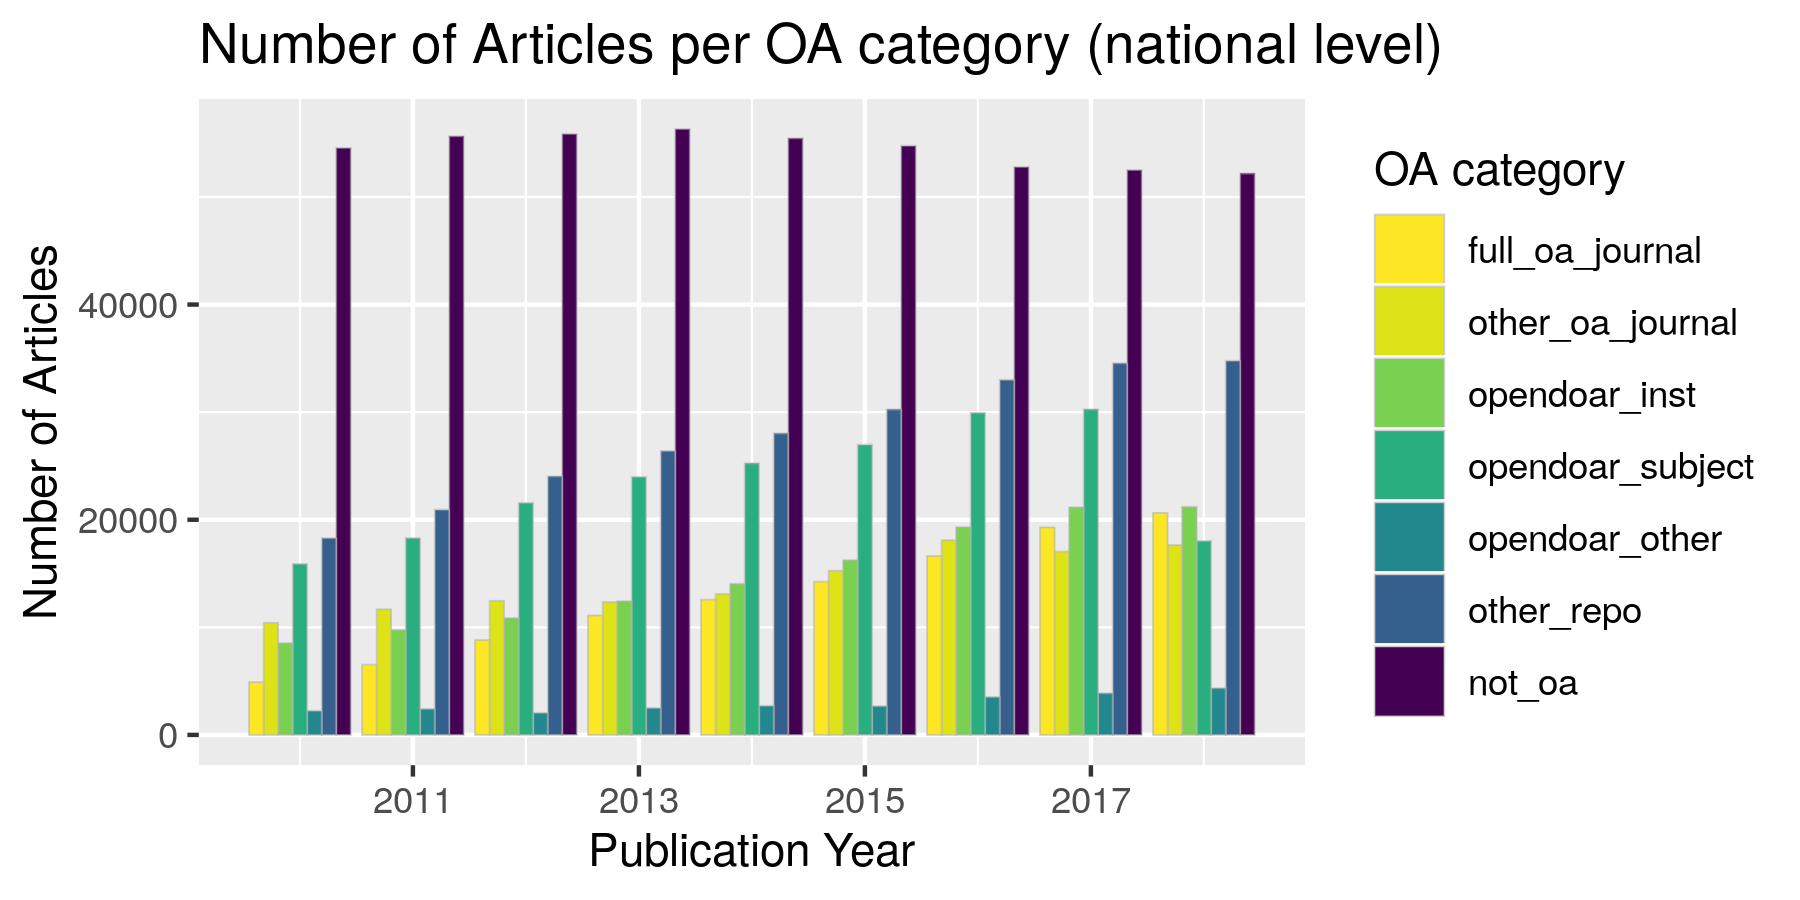
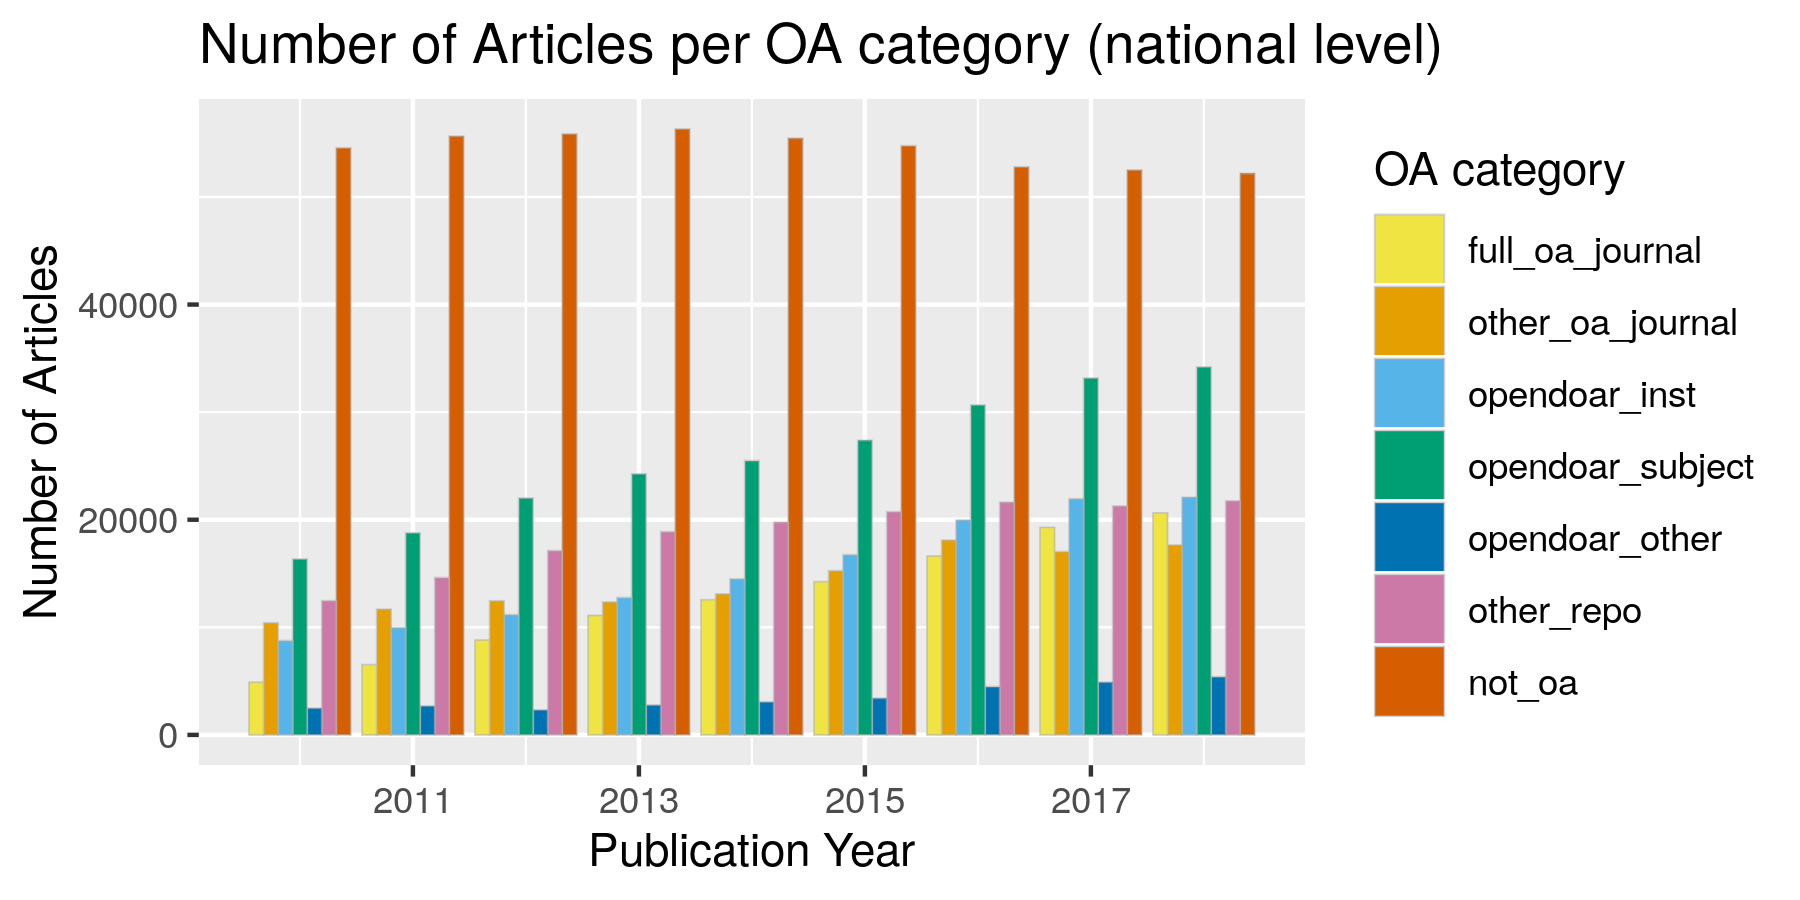
add filter for institutions with >= 100 pubs, change colors and linetypes, re-render

Changed region(s): [[0.1244, 0.1244, 0.7156, 0.84], [0.7467, 0.2178, 0.8089, 0.8089]]

diff --git a/analysis.md b/analysis.md
@@ -55,22 +55,29 @@ sectors.
 
 In order to investigate the variability of OA publishing within the
 sectors, we now go one level deeper and examine OA shares of individual
-institutions, grouped by the sector they belong to. To this end, we
-first calculate the individual OA shares.
+institutions, grouped by the sector they belong to. We only include
+institututions with a publication output of at least 100 publications in
+the observed time period of 9 years. Of the 469 institutions in total,
+334 fulfill this condition. This means, that in the following
+institution specific analyses, 135 insitutions, or 4649 articles are not
+considered. Of the remaining institutions, we first calculate the
+individual OA shares.
 
 The following figure displays scatterplots where the OA share of an
 institution over the whole time period is shown with respect to its
 publication
 output.
 
-<img src="analysis_files/figure-gfm/unnamed-chunk-8-1.png" title="Open Access shares of research institutions in Germany with respect to their total publication output grouped by the sector they belong to." alt="Open Access shares of research institutions in Germany with respect to their total publication output grouped by the sector they belong to." width="90%" style="display: block; margin: auto;" />
+<img src="analysis_files/figure-gfm/unnamed-chunk-8-1.png" title="Open Access shares of research institutions in Germany with respect to their total publication output grouped by the sector they belong to. Only institutions with at least 100 publications are shown. Blue points correspond to single insitutions, gray lines are obained by linear regression within the sector, gray areas are pointwise symmetric 95% t-distribution confidence bands. Scales of the x-axes vary across subplots in order to adapt to the different publication volumes." alt="Open Access shares of research institutions in Germany with respect to their total publication output grouped by the sector they belong to. Only institutions with at least 100 publications are shown. Blue points correspond to single insitutions, gray lines are obained by linear regression within the sector, gray areas are pointwise symmetric 95% t-distribution confidence bands. Scales of the x-axes vary across subplots in order to adapt to the different publication volumes." width="90%" style="display: block; margin: auto;" />
 The most striking observations from this figure are the high OA shares
-of most of the Max-Planck-institutes and the very low OA fractions of
-almost all of the state and federal institutes as well as the ones from
-the Fraunhofer Society. Universities and Leibniz-Society have many
-institutes with OA shares close to one half. We can further see very
-well that the universities have by far the largest publication volumes,
-followed by the Helmholtz-Society.
+of most of the Max-Planck and Helmholtz institutes and the very low OA
+fractions of almost all of the state and federal institutes as well as
+the ones from the Fraunhofer Society. Universities and Leibniz-Society
+have many institutes with OA shares close to one half. We can further
+see very well that the universities have by far the largest publication
+volumes, followed by the Helmholtz-Society. The linear trend of higher
+publication volume implying higher OA shares is most distinctive for the
+university sector (narrowest confidence bands).
 
 The following box plot quantifies the observations regarding the
 variability of OA shares within sectors made
@@ -101,43 +108,44 @@ be counted for several categories and numbers not necessarily sum up to
 the total number of articles
 published.
 
-<img src="analysis_files/figure-gfm/unnamed-chunk-10-1.png" title="Development of the total number of journal articles over time per OA category. Categories are non-exclusive." alt="Development of the total number of journal articles over time per OA category. Categories are non-exclusive." width="90%" style="display: block; margin: auto;" />
+<img src="analysis_files/figure-gfm/unnamed-chunk-10-1.png" title="Development of the total number of journal articles over time per OA category (as per schema in Table 1). Categories are non-exclusive, that is some articles may be counted for a journal and a repository category." alt="Development of the total number of journal articles over time per OA category (as per schema in Table 1). Categories are non-exclusive, that is some articles may be counted for a journal and a repository category." width="90%" style="display: block; margin: auto;" />
 Observations:
 
-  - drop in disciplinary repos, maybe because of green embargoes /
-    post-publish self-archiving
   - drop in other oa journal -\> Delayed OA
+  - slight drop in other\_repo -\> more sources registered, published
+    more in registered sources
   - apart from this: all OA categories increase, not oa decreases
-  - most prevalent category: other repo, i.e. not further specified
-    green OA, followed closely by disciplinary
+  - most prevalent category: subject-specific repos, registered with
+    OpenDOAR
+
+relative numbers?
 
 Or as
 barplot?
 
-<img src="analysis_files/figure-gfm/unnamed-chunk-11-1.png" title="Development of the total number of journal articles over time per OA category. Categories are non-exclusive." alt="Development of the total number of journal articles over time per OA category. Categories are non-exclusive." width="90%" style="display: block; margin: auto;" />
+<img src="analysis_files/figure-gfm/unnamed-chunk-11-1.png" title="Development of the total number of journal articles over time per OA category (as per schema in Table 1). Categories are non-exclusive, that is some articles may be counted for a journal and a repository category." alt="Development of the total number of journal articles over time per OA category (as per schema in Table 1). Categories are non-exclusive, that is some articles may be counted for a journal and a repository category." width="90%" style="display: block; margin: auto;" />
 
 Faceted?
 
-<img src="analysis_files/figure-gfm/unnamed-chunk-12-1.png" title="Development of the number of journal articles per OA category in comparison to the total number of journal articles published by the considered institutions over time. Categories are non-exclusive." alt="Development of the number of journal articles per OA category in comparison to the total number of journal articles published by the considered institutions over time. Categories are non-exclusive." width="90%" style="display: block; margin: auto;" />
+<img src="analysis_files/figure-gfm/unnamed-chunk-12-1.png" title="Development of the number of journal articles per OA category (as per schema in Table 1) in comparison to the total number of journal articles published by the considered institutions over time. Categories are non-exclusive, that is some articles may be counted for a journal and a repository category." alt="Development of the number of journal articles per OA category (as per schema in Table 1) in comparison to the total number of journal articles published by the considered institutions over time. Categories are non-exclusive, that is some articles may be counted for a journal and a repository category." width="90%" style="display: block; margin: auto;" />
 
-Again, we go one step further and look at insitution specific OA
-proportions. In a first step, we calculate the category-specific OA
-shares of each
-institution.
+Again, we go one step further and look at sector specific OA
+proportions.
 
-<img src="analysis_files/figure-gfm/unnamed-chunk-14-1.png" title="OA shares per sector. Shown is the relationship between Green OA shares and total OA shares. Point sizes correspond to total publication output." alt="OA shares per sector. Shown is the relationship between Green OA shares and total OA shares. Point sizes correspond to total publication output." width="90%" style="display: block; margin: auto;" />
+<img src="analysis_files/figure-gfm/unnamed-chunk-13-1.png" title="OA shares per sector. The relationship between Gold OA (publisher), or Green OA (repository), and the total OA share is shown. Point sizes correspond to total publication output. Coloring is according to sector." alt="OA shares per sector. The relationship between Gold OA (publisher), or Green OA (repository), and the total OA share is shown. Point sizes correspond to total publication output. Coloring is according to sector." width="90%" style="display: block; margin: auto;" />
 
-<img src="analysis_files/figure-gfm/unnamed-chunk-15-1.png" title="OA shares per sector. Shown is the relationship between OA shares of individual OA categories and overall OA share. Point sizes correspond to total publication output." alt="OA shares per sector. Shown is the relationship between OA shares of individual OA categories and overall OA share. Point sizes correspond to total publication output." width="90%" style="display: block; margin: auto;" />
-facet this per sector? plot oa\_cat\_shares for single sector, order by
-total oa\_share (state in facet titles); similar to above bar/line plots
-faceted by sector (with/without yearly development)
+<img src="analysis_files/figure-gfm/unnamed-chunk-14-1.png" title="OA shares per category and sector. The relationship between OA shares of individual OA categories (as per schema in Table 1) and overall OA share is shown. Point sizes correspond to total publication output. Coloring is according to sector." alt="OA shares per category and sector. The relationship between OA shares of individual OA categories (as per schema in Table 1) and overall OA share is shown. Point sizes correspond to total publication output. Coloring is according to sector." width="90%" style="display: block; margin: auto;" />
+plot oa\_cat\_shares for single sector, order by total oa\_share (state
+in facet titles); similar to above bar/line plots faceted by sector
+(with/without yearly development)
 
-Institution
-specific:
+Lookin at the institutional level, we, again, only consider institutions
+with at least 100 publications in the observed time period of 9
+years.
 
-<img src="analysis_files/figure-gfm/unnamed-chunk-16-1.png" title="OA shares per OA category for individual research institutions. The relationship between OA shares of individual OA categories and overall OA share is shown." alt="OA shares per OA category for individual research institutions. The relationship between OA shares of individual OA categories and overall OA share is shown." width="90%" style="display: block; margin: auto;" />
+<img src="analysis_files/figure-gfm/unnamed-chunk-15-1.png" title="OA shares per OA category for individual research institutions. The relationship between OA shares of individual OA categories (as per schema in Table 1) and overall OA share is shown." alt="OA shares per OA category for individual research institutions. The relationship between OA shares of individual OA categories (as per schema in Table 1) and overall OA share is shown." width="90%" style="display: block; margin: auto;" />
 
-<img src="analysis_files/figure-gfm/unnamed-chunk-17-1.png" title="OA shares per sector and OA category for individual institutions. The relationship between OA shares of individual OA categories and overall OA share is shown." alt="OA shares per sector and OA category for individual institutions. The relationship between OA shares of individual OA categories and overall OA share is shown." width="90%" style="display: block; margin: auto;" />
+<img src="analysis_files/figure-gfm/unnamed-chunk-16-1.png" title="OA shares per sector and OA category for individual institutions. The relationship between OA shares of individual OA categories and overall OA share is shown." alt="OA shares per sector and OA category for individual institutions. The relationship between OA shares of individual OA categories and overall OA share is shown." width="90%" style="display: block; margin: auto;" />
 
 ### Discussion
 
@@ -150,23 +158,23 @@ Unpaywall, we load the original, non-categorized Unpaywall data:
 We now determine the evidence combinations for all matched DOIs and then
 calculate the frequency of each combination found.
 
-    #> # A tibble: 3,809 x 2
+    #> # A tibble: 538 x 2
     #>    evidence                                                               n
     #>    <chr>                                                              <int>
-    #>  1 oa repository (via OAI-PMH doi match)                              39400
-    #>  2 open (via free pdf)                                                19599
-    #>  3 oa journal (via doaj)&oa repository (semantic scholar lookup)&oa … 15732
-    #>  4 oa repository (via OAI-PMH title and first author match)           15666
-    #>  5 oa repository (semantic scholar lookup)                            12377
-    #>  6 oa journal (via doaj)&oa repository (via OAI-PMH doi match)&oa re… 11847
-    #>  7 oa repository (via OAI-PMH doi match)&oa repository (via pmcid lo… 11019
-    #>  8 oa repository (semantic scholar lookup)&oa repository (via OAI-PM… 10892
-    #>  9 oa repository (via OAI-PMH doi match)&oa repository (via OAI-PMH … 10556
-    #> 10 oa repository (via OAI-PMH doi match)&oa repository (via pmcid lo…  8831
-    #> # … with 3,799 more rows
+    #>  1 oa repository (via OAI-PMH doi match)                              53074
+    #>  2 oa journal (via doaj)&oa repository (semantic scholar lookup)&oa … 23061
+    #>  3 oa repository (via OAI-PMH title and first author match)           22519
+    #>  4 oa journal (via doaj)&oa repository (via OAI-PMH doi match)&oa re… 20293
+    #>  5 open (via free pdf)                                                19599
+    #>  6 oa repository (semantic scholar lookup)&oa repository (via OAI-PM… 13971
+    #>  7 oa repository (via OAI-PMH doi match)&oa repository (via pmcid lo… 12709
+    #>  8 oa repository (semantic scholar lookup)                            12377
+    #>  9 oa repository (via OAI-PMH doi match)&oa repository (via OAI-PMH … 11312
+    #> 10 oa repository (via OAI-PMH doi match)&oa repository (via pmcid lo… 10513
+    #> # … with 528 more rows
 
 We now prepare the data for plotting with the UpSetR package and
 visualise the overlapping evidence
 categories.
 
-<img src="analysis_files/figure-gfm/unnamed-chunk-20-1.png" width="90%" style="display: block; margin: auto;" />
+<img src="analysis_files/figure-gfm/unnamed-chunk-19-1.png" width="90%" style="display: block; margin: auto;" />
